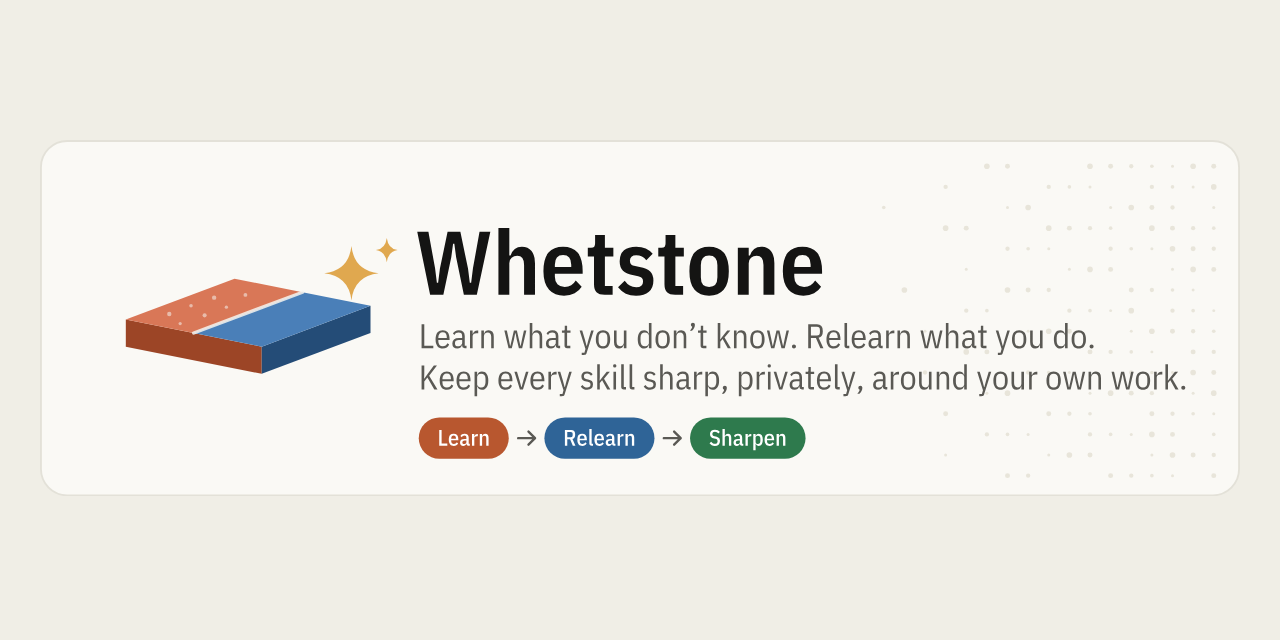
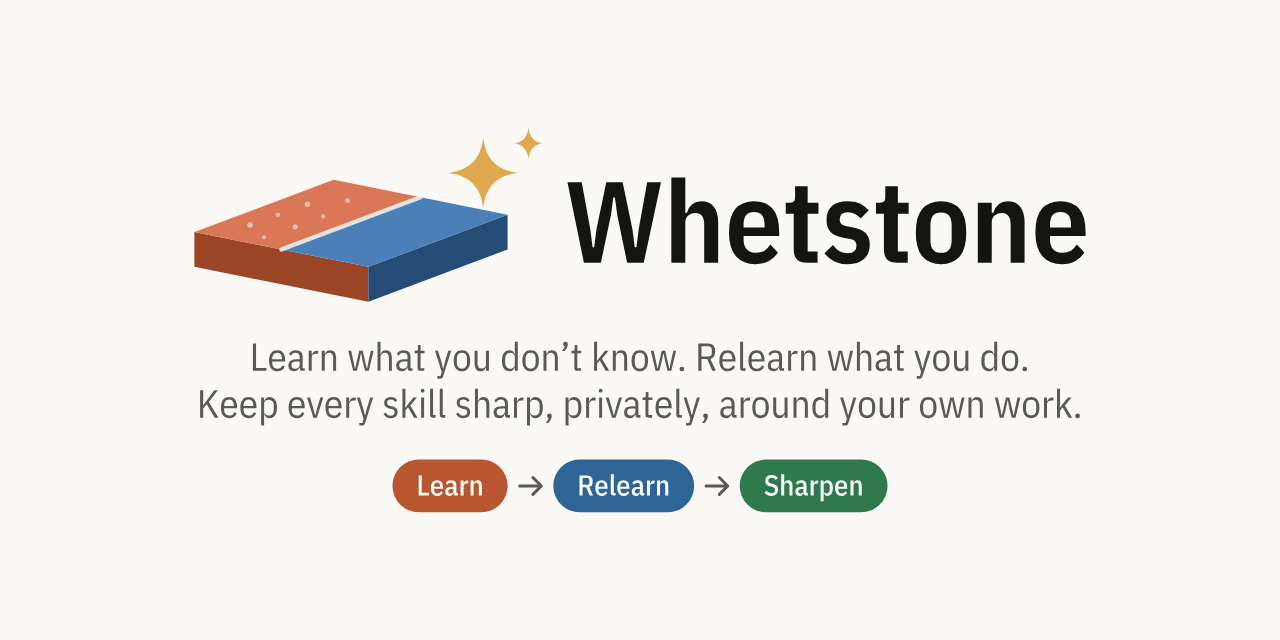
Social preview: a full-bleed card inside GitHub's safe margin
The stone and wordmark, the tagline and the Learn, Relearn, Sharpen
pills are centred in the 1120 x 480 area GitHub's repository card
template keeps clear of cropping, on a plain cream background with no
inner card. scripts/demo/social_card.py draws it from the banner's
outlined paths (no fonts needed); --guides shows the margin.

Changed region(s): [[0.0938, 0.2188, 0.9375, 0.8125]]

diff --git a/scripts/demo/social_card.py b/scripts/demo/social_card.py
@@ -1,0 +1,87 @@
+"""Draw docs/brand/social-preview.png, the card GitHub shows when the repo's link is shared.
+
+    uv run --group demo python scripts/demo/social_card.py [--guides]
+
+It reuses the outlined text and the stone from docs/brand/banner-light.svg (made by brand.py), so
+it needs no fonts. GitHub crops the card's edges in some places, so everything that matters sits
+inside an 80 px margin of the 1280 x 640 card, as GitHub's repository card template asks.
+`--guides` draws that margin in red, to check by eye. Upload the PNG in the repository's
+Settings > General > Social preview.
+"""
+
+from __future__ import annotations
+
+import argparse
+import asyncio
+import xml.etree.ElementTree as ET
+from pathlib import Path
+
+from playwright.async_api import async_playwright
+
+ROOT = Path(__file__).resolve().parents[2]
+SVG_NS = "http://www.w3.org/2000/svg"
+W, H, SAFE = 1280, 640, 80
+
+# Each part's scale, and the space above it, in card pixels. They stack centred in the safe area.
+LAYOUT = [("lockup", 1.2, 0), ("line1", 1.08, 40), ("line2", 1.08, 10), ("pills", 1.2, 34)]
+
+PLACE = """([parts, W, H, SAFE]) => {
+  const boxes = parts.map(([id, scale, gap]) => {
+    const b = document.getElementById(id).getBBox();
+    return { id, scale, gap, b, w: b.width * scale, h: b.height * scale };
+  });
+  const total = boxes.reduce((sum, x) => sum + x.gap + x.h, 0);
+  let y = SAFE + (H - 2 * SAFE - total) / 2;
+  for (const x of boxes) {
+    y += x.gap;
+    const left = (W - x.w) / 2;
+    document.getElementById(x.id).setAttribute("transform",
+      `translate(${left - x.b.x * x.scale} ${y - x.b.y * x.scale}) scale(${x.scale})`);
+    y += x.h;
+  }
+  return boxes.map((x) => [x.id, Math.round(x.w), Math.round(x.h)]);
+}"""
+
+
+def card(guides: bool) -> str:
+    banner = ET.parse(ROOT / "docs/brand/banner-light.svg").getroot()
+    parts = [el for el in banner if el.tag != f"{{{SVG_NS}}}title"]
+    _background, _dots, stone, title, line1, line2, *pills = parts
+    xml = lambda els: "".join(ET.tostring(e, encoding="unicode") for e in els)  # noqa: E731
+    guide = (
+        f'<rect x="{SAFE}" y="{SAFE}" width="{W - 2 * SAFE}" height="{H - 2 * SAFE}" fill="none" stroke="#C0392B" stroke-width="2"/>'
+        if guides
+        else ""
+    )
+    svg = (
+        f'<svg xmlns="{SVG_NS}" width="{W}" height="{H}" viewBox="0 0 {W} {H}">'
+        f'<rect width="{W}" height="{H}" fill="#FAF9F5"/>'
+        # The wordmark comes down level with the stone's middle; in the wide banner it sits higher.
+        f'<g id="lockup">{xml([stone])}<g transform="translate(0 52)">{xml([title])}</g></g>'
+        f'<g id="line1">{xml([line1])}</g><g id="line2">{xml([line2])}</g>'
+        f'<g id="pills">{xml(pills)}</g>{guide}</svg>'
+    )
+    return svg.replace("ns0:", "").replace(":ns0", "")
+
+
+async def render(out: Path, guides: bool) -> None:
+    async with async_playwright() as pw:
+        browser = await pw.chromium.launch()
+        page = await browser.new_page(viewport={"width": W, "height": H})
+        await page.set_content(f"<html><body style='margin:0'>{card(guides)}</body></html>")
+        placed = await page.evaluate(PLACE, [LAYOUT, W, H, SAFE])
+        await page.screenshot(path=out, clip={"x": 0, "y": 0, "width": W, "height": H})
+        await browser.close()
+    print(f"Wrote {out} ({out.stat().st_size // 1024} KB): " + ", ".join(f"{i} {w}x{h}" for i, w, h in placed))
+
+
+def main() -> None:
+    parser = argparse.ArgumentParser(description=__doc__.splitlines()[0])
+    parser.add_argument("--guides", action="store_true", help="draw GitHub's 80 px safe margin")
+    parser.add_argument("--out", default=str(ROOT / "docs/brand/social-preview.png"))
+    args = parser.parse_args()
+    asyncio.run(render(Path(args.out), args.guides))
+
+
+if __name__ == "__main__":
+    main()
